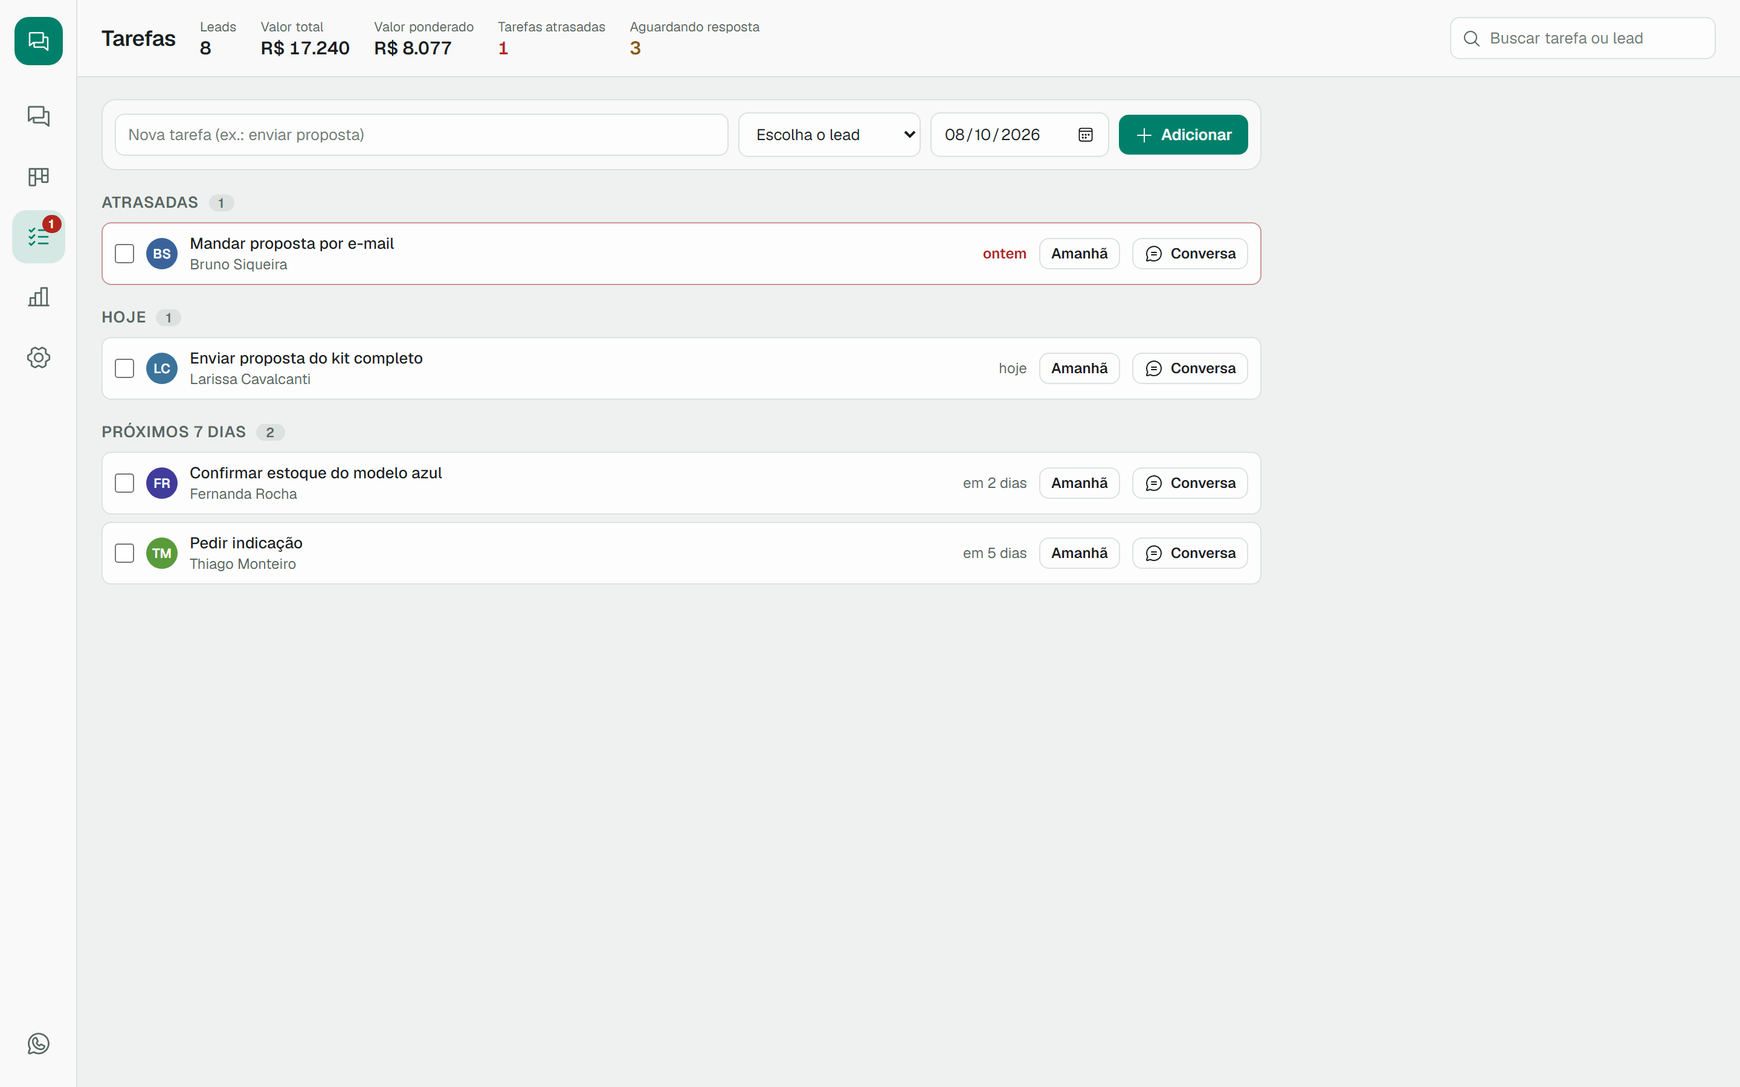
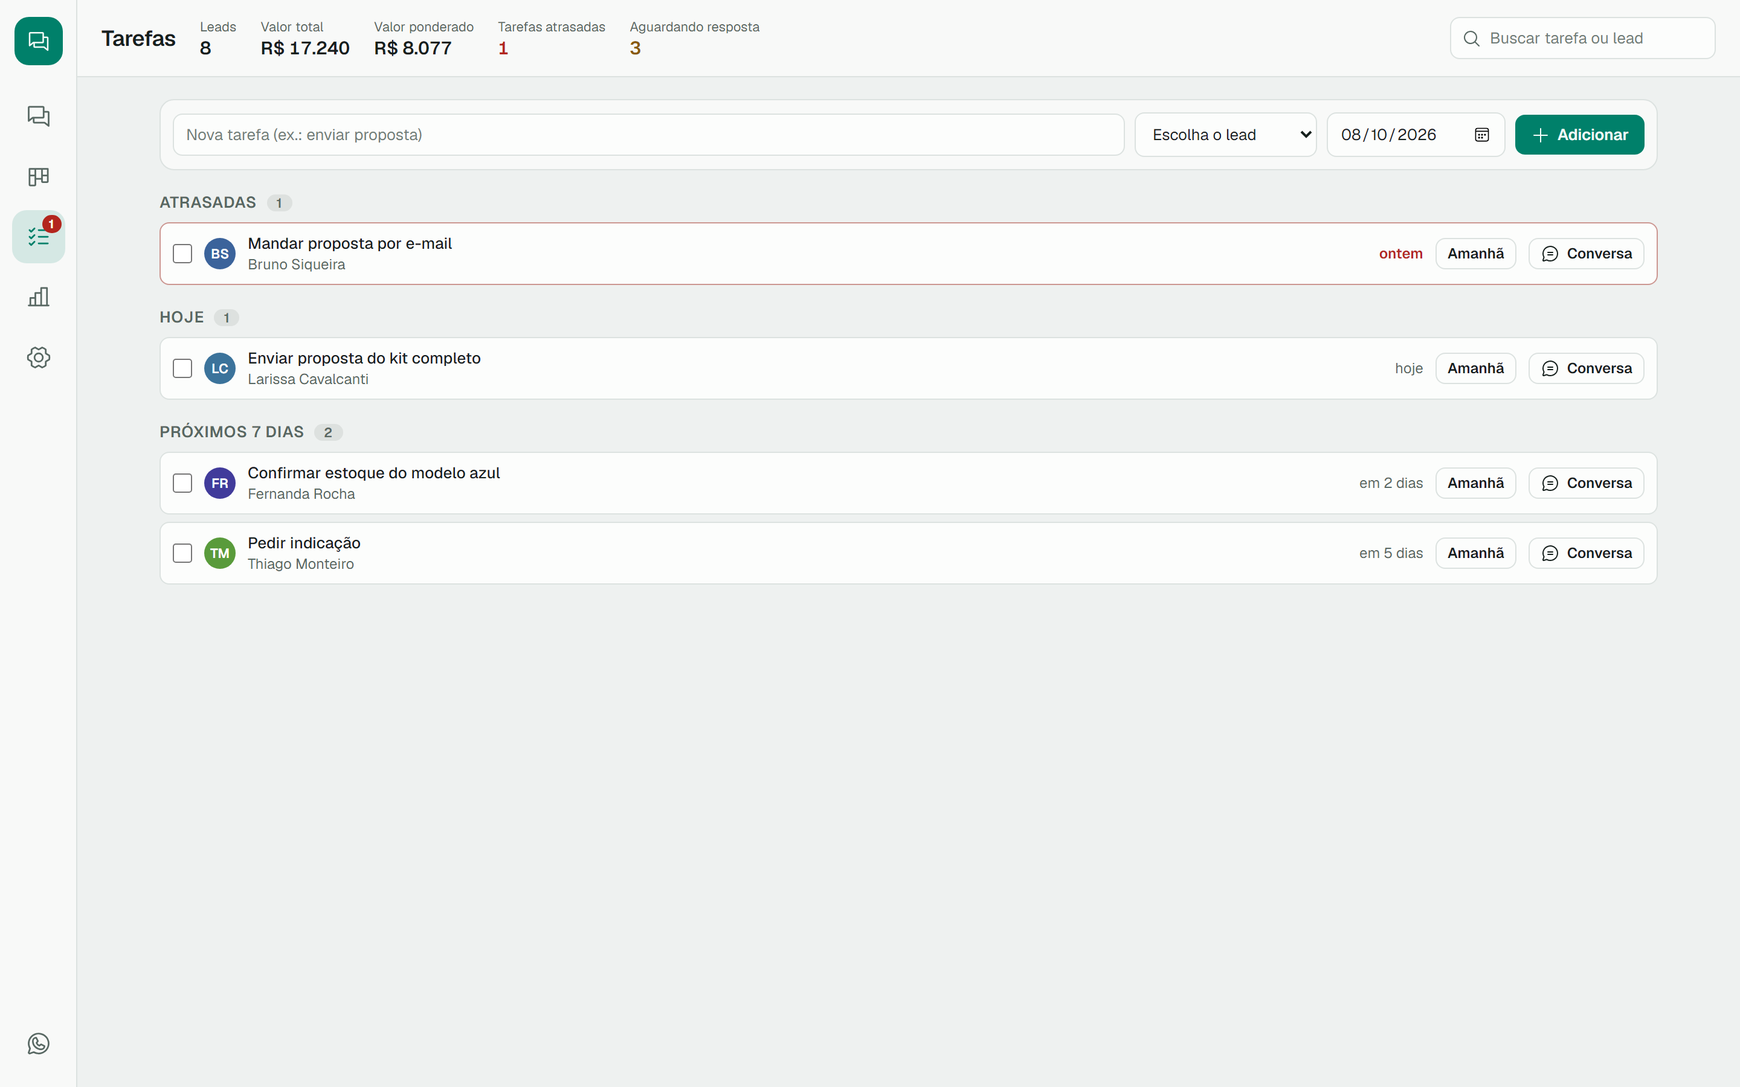
Tema claro/escuro, legenda das fotos, telas centralizadas e conversão do funil
- Botão de tema na barra lateral (sol/lua), com a escolha salva; em Ajustes, "Seguir o
  WhatsApp", "Claro" ou "Escuro".
- Fotos com texto: o campo de legenda do editor do WhatsApp é encontrado também pela posição
  (o rótulo muda conforme idioma e versão) e o texto é conferido depois de escrito. Se não
  entrar, vai logo depois da foto como mensagem, com aviso.
- Relatório e Tarefas centralizados até 1240px; métricas em 3 colunas e etapas na largura toda.
- Conversão de ponta a ponta conta só quem passou pela primeira etapa (antes podia passar de 100%).
- README e prints atualizados.

diff --git a/src/utils/domHelpers.ts b/src/utils/domHelpers.ts
@@ -149,12 +149,41 @@ function mediaSendButton(): HTMLElement | null {
   return null;
 }
 
-function mediaCaptionBox(): HTMLElement | null {
+const plainText = (el: HTMLElement) => (el.innerText ?? '').replace(/[\u200B\r]/g, '').trim();
+
+/**
+ * Campo de legenda do editor de mídia. O rótulo muda conforme idioma e versão do WhatsApp, então, se ele não bater,
+ * vale o campo que recebeu o foco ao abrir o editor ou o campo de texto mais próximo do botão de enviar do editor.
+ * Nunca o campo de mensagem da conversa nem a busca.
+ */
+function mediaCaptionBox(send: HTMLElement, mainComposer: HTMLElement | null): HTMLElement | null {
+  const search = queryFirst('searchBox');
+  const ok = (el: Element | null): el is HTMLElement =>
+    el instanceof HTMLElement && el.isContentEditable && el !== mainComposer && el !== search && !el.closest('footer') && visible(el);
   for (const sel of MEDIA_CAPTION) {
-    const el = Array.from(document.querySelectorAll<HTMLElement>(sel)).find(visible);
+    const el = Array.from(document.querySelectorAll(sel)).find(ok);
     if (el) return el;
   }
+  if (ok(document.activeElement)) return document.activeElement;
+  for (let el = send.parentElement, i = 0; el && i < 12; el = el.parentElement, i++) {
+    const near = Array.from(el.querySelectorAll('[contenteditable="true"]')).find(ok);
+    if (near) return near;
+  }
   return null;
+}
+
+/** Escreve no campo (colagem, depois insertText) e confere se o texto entrou de fato. */
+async function writeCaption(el: HTMLElement, text: string): Promise<boolean> {
+  const probe = text.trim().split('\n')[0]!.slice(0, 20);
+  placeCaretAtEnd(el);
+  pasteText(el, text);
+  await sleep(150);
+  if (!plainText(el).includes(probe)) {
+    el.focus();
+    document.execCommand('insertText', false, text);
+    await sleep(150);
+  }
+  return plainText(el).includes(probe);
 }
 
 export type MediaResult = 'sent' | 'no-composer' | 'no-editor' | 'not-confirmed';
@@ -164,9 +193,9 @@ export type MediaResult = 'sent' | 'no-composer' | 'no-editor' | 'not-confirmed'
  * como quando você cola uma imagem), escreve a legenda e clica em enviar no editor. Só é chamado quando o
  * usuário clica em Enviar no CRM.
  */
-export async function sendFiles(files: File[], caption: string): Promise<MediaResult> {
+export async function sendFiles(files: File[], caption: string): Promise<{ status: MediaResult; captionOk: boolean }> {
   const box = getComposer();
-  if (!box) return 'no-composer';
+  if (!box) return { status: 'no-composer', captionOk: false };
   box.focus();
   const stale = mediaSendButton(); // algo parecido já na tela não é o editor que vamos abrir
   const data = new DataTransfer();
@@ -179,26 +208,22 @@ export async function sendFiles(files: File[], caption: string): Promise<MediaRe
     const found = mediaSendButton();
     send = found && found !== stale ? found : null;
   }
-  if (!send) return 'no-editor';
+  if (!send) return { status: 'no-editor', captionOk: false };
 
+  let captionOk = !caption;
   if (caption) {
-    const cap = mediaCaptionBox();
-    if (cap) {
-      placeCaretAtEnd(cap);
-      pasteText(cap, caption);
-      await sleep(120);
-      if (!cap.innerText.trim()) document.execCommand('insertText', false, caption);
-      await sleep(80);
-    }
+    await sleep(200); // o editor termina de montar o campo de legenda
+    const cap = mediaCaptionBox(send, box);
+    if (cap) captionOk = await writeCaption(cap, caption);
   }
   await sleep(250);
   realClick(mediaSendButton() ?? send);
   for (let i = 0; i < 30; i++) {
     await sleep(150);
     const still = mediaSendButton();
-    if (!still || still === stale) return 'sent';
+    if (!still || still === stale) return { status: 'sent', captionOk };
   }
-  return 'not-confirmed';
+  return { status: 'not-confirmed', captionOk };
 }
 
 /** Esvazia a busca da lista de conversas (depois de abrir um contato por ela). */

diff --git a/src/components/Kanban.ts b/src/components/Kanban.ts
@@ -4,7 +4,7 @@ import { blankContact, deleteContact, getOrCreateContact, putContact, rekeyConta
 import { emitDataChange } from '../storage/bus';
 import { openChat, visibleChatNames } from '../content/chatList';
 import { analyzeChat } from '../content/ai';
-import { DAY_MS, funnelStats, inFunnel, isGroupContact, periodStats, stageProbability, weightedValue } from '../content/metrics';
+import { DAY_MS, funnelConversion, funnelStats, inFunnel, isGroupContact, periodStats, stageProbability, weightedValue } from '../content/metrics';
 import { readMessages, waitForChat } from '../content/messages';
 import { state } from '../content/state';
 import { clearComposer, replaceTokenWithText, sendComposer } from '../utils/domHelpers';
@@ -415,6 +415,7 @@ export function createFunnel(root: ShadowRoot, opts: FunnelOptions): Funnel {
     const pct = (a: number, b: number) => (b ? Math.round((a / b) * 100) + '%' : '-');
     const first = stats[0];
     const last = stats[stats.length - 1];
+    const conv = funnelConversion(list);
     const prevLabel = `vs ${reportDays} dias anteriores`;
 
     /** Variação contra o período anterior. `lowerIsBetter` inverte as cores (ex.: tempo até fechar). */
@@ -443,7 +444,7 @@ export function createFunnel(root: ShadowRoot, opts: FunnelOptions): Funnel {
         card('Vendas fechadas', String(cur.won), delta(cur.won, prev.won), `Leads que chegaram a "${last?.stage.name ?? 'última etapa'}" no período`),
         card('Valor ganho', money(cur.wonValue), delta(cur.wonValue, prev.wonValue), 'Soma do valor das vendas fechadas no período'),
         card('Tarefas concluídas', String(cur.tasksDone), delta(cur.tasksDone, prev.tasksDone), 'Tarefas marcadas como feitas no período'),
-        h('div', { class: 'dash-card wide', title: 'Da entrada no CRM até a última etapa, para as vendas fechadas no período' },
+        h('div', { class: 'dash-card', title: 'Da entrada no CRM até a última etapa, para as vendas fechadas no período' },
           h('span', { class: 'dash-label' }, 'Tempo médio até fechar'), blocks(cur.timeToClose), delta(cur.timeToClose, prev.timeToClose, true))),
 
       h('h3', { class: 'dash-title' }, 'Tempo médio em cada etapa'),
@@ -465,7 +466,7 @@ export function createFunnel(root: ShadowRoot, opts: FunnelOptions): Funnel {
           h('td', { class: 'num' }, money(s.weighted)))))),
       h('p', { class: 'muted' },
         `Leads sem etapa: ${list.filter((c) => !c.stageId).length}. `,
-        first && last && first !== last ? `De "${first.stage.name}" até "${last.stage.name}": ${pct(last.entered, first.entered)}. ` : '',
+        conv && first && last ? `Dos ${conv.from} leads que passaram por "${first.stage.name}", ${conv.reached} chegaram a "${last.stage.name}" (${pct(conv.reached, conv.from)}). ` : '',
         'O histórico de etapas começou a ser gravado na versão 0.4: leads mais antigos contam a partir da etapa em que estavam.'));
   }
 

diff --git a/src/components/styles.ts b/src/components/styles.ts
@@ -179,7 +179,8 @@ details.sec summary { cursor: pointer; font-weight: 600; font-size: 13px; }
 
 /* ---------- visões do Kanban: tarefas e relatório ---------- */
 .seg { display: inline-flex; gap: 4px; }
-.kb-page { flex: 1; overflow-y: auto; padding: 18px 20px; max-width: 1000px; width: 100%; }
+/* conteúdo centralizado até 1240px; o espaço lateral fica no padding para a barra de rolagem continuar na borda */
+.kb-page { flex: 1; overflow-y: auto; width: 100%; padding: 18px max(20px, calc((100% - 1240px) / 2)); }
 .tform { display: flex; gap: 8px; align-items: center; flex-wrap: wrap; background: var(--surface); border: 1px solid var(--line); border-radius: var(--r-box); padding: 10px; margin-bottom: 18px; }
 .tform input, .tform select { margin: 0; width: auto; }
 .tform input:not([type]) { flex: 1; min-width: 200px; }
@@ -331,10 +332,9 @@ input:disabled { opacity: .7; cursor: not-allowed; }
 .import-preview .rep { font-size: 12px; }
 
 /* ---------- painel do relatório ---------- */
-.dash-grid { display: grid; grid-template-columns: repeat(auto-fill, minmax(200px, 1fr)); gap: 12px; margin-bottom: 22px; }
-.dash-grid.stages { grid-template-columns: repeat(auto-fill, minmax(260px, 1fr)); }
+.dash-grid { display: grid; grid-template-columns: repeat(3, minmax(0, 1fr)); gap: 12px; margin-bottom: 22px; }
+.dash-grid.stages { grid-template-columns: repeat(auto-fit, minmax(240px, 1fr)); }
 .dash-card { background: var(--surface); border: 1px solid var(--line); border-radius: var(--r-box); padding: 14px 16px; display: flex; flex-direction: column; gap: 6px; min-width: 0; }
-.dash-card.wide { grid-column: span 2; }
 .dash-label { font-size: 12px; color: var(--muted); display: inline-flex; align-items: center; gap: 4px; }
 .dash-value { font-size: 26px; font-weight: 600; letter-spacing: -.02em; font-variant-numeric: tabular-nums; line-height: 1.1; }
 .delta { font-size: 12px; color: var(--muted); font-variant-numeric: tabular-nums; }
@@ -347,7 +347,8 @@ input:disabled { opacity: .7; cursor: not-allowed; }
 .dur b { font-size: 22px; font-weight: 600; font-variant-numeric: tabular-nums; line-height: 1.1; }
 .dur span { font-size: 11px; color: var(--muted); }
 .dur.empty-dur { display: block; padding: 12px; font-size: 12px; color: var(--muted); text-align: center; }
-@media (max-width: 760px) { .dash-card.wide { grid-column: auto; } }
+@media (max-width: 1000px) { .dash-grid { grid-template-columns: repeat(2, minmax(0, 1fr)); } }
+@media (max-width: 640px) { .dash-grid { grid-template-columns: minmax(0, 1fr); } }
 
 /* ---------- painel do contato (coluna da direita) ---------- */
 .cp-head { display: flex; flex-direction: column; gap: 12px; padding-bottom: 16px; border-bottom: 1px solid var(--line); }

diff --git a/src/components/Inbox.ts b/src/components/Inbox.ts
@@ -5,7 +5,7 @@ import { openChat, rowNames } from '../content/chatList';
 import { findLead, isAwaiting, loadMoreConversations, readConversations, setStatus, type ConvRow } from '../content/conversations';
 import { loadOlderMessages, readMessages, waitForChat, type Msg } from '../content/messages';
 import { state } from '../content/state';
-import { clearComposer, clearSearch, replaceTokenWithText, sendComposer, sendFiles, typeInSearch } from '../utils/domHelpers';
+import { clearComposer, clearSearch, replaceTokenWithText, sendComposer, sendFiles, sleep, typeInSearch } from '../utils/domHelpers';
 import { queryAll } from '../utils/domSelectors';
 import { applyVars, avatarColor, fullDate, hashHue, initials, looseName, normalizeName, relTime, tagHue } from '../utils/format';
 import { contactPanel, fieldVars, leadFor } from './ContactPanel';
@@ -404,7 +404,15 @@ export function createInbox(root: ShadowRoot, opts: { isVisible(): boolean; show
   async function sendPhotos(key: string, caption: string) {
     sending = true;
     renderTray();
-    const result = await sendFiles(files.map((f) => f.file), caption);
+    const { status: result, captionOk } = await sendFiles(files.map((f) => f.file), caption);
+    // a legenda não entrou no editor do WhatsApp: o texto vai logo depois, como mensagem, para não se perder
+    const textApart = result === 'sent' && !!caption && !captionOk;
+    if (textApart) {
+      await sleep(400);
+      await clearComposer();
+      await replaceTokenWithText(0, caption);
+      await sendComposer(false);
+    }
     sending = false;
     if (result === 'sent' || result === 'not-confirmed') {
       clearFiles();
@@ -412,7 +420,7 @@ export function createInbox(root: ShadowRoot, opts: { isVisible(): boolean; show
       drafts.delete(key);
       window.setTimeout(() => renderMessages(), 700);
     } else renderTray();
-    if (result === 'sent') toast(root, 'Foto enviada.');
+    if (result === 'sent') toast(root, textApart ? 'Foto enviada. O texto foi logo em seguida, como mensagem.' : 'Foto enviada.');
     else if (result === 'not-confirmed') { toast(root, 'Confira no WhatsApp original se a foto saiu.'); opts.showWhatsApp(); }
     else if (result === 'no-editor') { toast(root, 'O WhatsApp não abriu o editor de foto. Abri o WhatsApp original para você enviar por lá.'); opts.showWhatsApp(); }
     else toast(root, 'Abra uma conversa antes de enviar a foto.');

diff --git a/src/components/App.ts b/src/components/App.ts
@@ -1,5 +1,7 @@
 import type { Contact } from '../types';
 import { state } from '../content/state';
+import { currentTheme } from '../content/injector';
+import { saveViewPrefs } from '../storage/chromeStore';
 import { todayStr } from '../utils/format';
 import { createFunnel, type FunnelMode } from './Kanban';
 import { createInbox } from './Inbox';
@@ -45,11 +47,23 @@ export function mountApp(root: ShadowRoot): App {
   });
 
   const lateBadge = h('span', { class: 'rail-badge hidden' });
+  // alterna claro/escuro e guarda a escolha (em Ajustes dá para voltar a seguir o WhatsApp)
+  const themeBtn = h('button', { class: 'rail-btn', on: { click: () => {
+    void saveViewPrefs({ ...state.view, theme: currentTheme() === 'dark' ? 'light' : 'dark' });
+  } } });
+  const renderThemeBtn = () => {
+    const dark = currentTheme() === 'dark';
+    const label = dark ? 'Mudar para o tema claro' : 'Mudar para o tema escuro';
+    themeBtn.replaceChildren(icon(dark ? 'sun' : 'moon', 22));
+    themeBtn.title = label;
+    themeBtn.setAttribute('aria-label', label);
+  };
   const railNav = h('nav', { class: 'rail-nav', 'aria-label': 'Seções do CRM' });
   const rail = h('div', { class: 'rail' },
     h('div', { class: 'rail-mark', title: 'WA Local CRM', 'aria-hidden': 'true' }, icon('chats', 20)),
     railNav,
     h('span', { class: 'kb-spacer' }),
+    themeBtn,
     h('button', { class: 'rail-btn', title: 'Usar o WhatsApp original (Alt+K volta)', 'aria-label': 'Usar o WhatsApp original', on: { click: () => api.hide() } }, icon('whatsapp', 22)));
 
   const settingsMenu = h('nav', { class: 'set-menu', 'aria-label': 'Ajustes' });
@@ -64,6 +78,7 @@ export function mountApp(root: ShadowRoot): App {
   for (const type of ['keydown', 'keypress', 'keyup', 'paste'] as const) shell.addEventListener(type, (e) => e.stopPropagation());
 
   function renderRail() {
+    renderThemeBtn();
     const late = state.contacts.reduce((a, c) => a + c.tasks.filter((t) => !t.done && t.due && t.due < todayStr()).length, 0);
     lateBadge.textContent = String(late);
     lateBadge.classList.toggle('hidden', late === 0);

diff --git a/src/components/Settings.ts b/src/components/Settings.ts
@@ -338,10 +338,13 @@ function dataView(root: ShadowRoot, refresh: () => void): Node[] {
     try { toast(root, `${await importBackup(await f.text())} contatos importados.`); } catch (err) { toast(root, String(err)); }
   } } });
   return [
-    h('div', { class: 'sec form-card' }, h('h4', {}, 'Abertura e avisos'),
+    h('div', { class: 'sec form-card' }, h('h4', {}, 'Aparência, abertura e avisos'),
       h('label', { class: 'check', for: 'set-autoopen' },
         h('input', { id: 'set-autoopen', type: 'checkbox', checked: state.view.autoOpen, on: { change: (e) => void saveViewPrefs({ ...state.view, autoOpen: (e.target as HTMLInputElement).checked }) } }),
         'Abrir o CRM em tela cheia assim que o WhatsApp carregar'),
+      h('label', { class: 'field', for: 'set-theme' }, 'Tema'),
+      h('select', { id: 'set-theme', on: { change: (e) => void saveViewPrefs({ ...state.view, theme: (e.target as HTMLSelectElement).value as typeof state.view.theme }) } },
+        ...([['auto', 'Seguir o WhatsApp'], ['light', 'Claro'], ['dark', 'Escuro']] as const).map(([v, l]) => h('option', { value: v, selected: state.view.theme === v }, l))),
       h('label', { class: 'check', for: 'set-notify' },
         h('input', { id: 'set-notify', type: 'checkbox', checked: state.view.notifyTasks, on: { change: (e) => void saveViewPrefs({ ...state.view, notifyTasks: (e.target as HTMLInputElement).checked }) } }),
         'Avisar no computador quando uma tarefa vence hoje ou atrasa'),

diff --git a/src/content/injector.ts b/src/content/injector.ts
@@ -12,6 +12,18 @@ function isDark(): boolean {
   return (r * 299 + g * 587 + b * 114) / 1000 < 90;
 }
 
+type ThemePref = 'auto' | 'light' | 'dark';
+let preference: ThemePref = 'auto';
+let syncTheme = () => undefined as void;
+
+/** Tema escolhido no CRM. "auto" acompanha o WhatsApp; claro ou escuro valem mesmo que o WhatsApp esteja no outro. */
+export function setThemePreference(pref: ThemePref): void {
+  preference = pref;
+  syncTheme();
+}
+
+export const currentTheme = (): 'light' | 'dark' => (preference === 'auto' ? (isDark() ? 'dark' : 'light') : preference);
+
 /** Cria o host com Shadow Root (isola o CSS do WhatsApp) e acompanha o tema claro/escuro. */
 export function mountShadowRoot(): ShadowRoot {
   document.getElementById(HOST_ID)?.remove();
@@ -23,7 +35,8 @@ export function mountShadowRoot(): ShadowRoot {
   root.append(style);
   document.documentElement.append(host);
 
-  const sync = () => host.setAttribute('data-theme', isDark() ? 'dark' : 'light');
+  const sync = () => host.setAttribute('data-theme', currentTheme());
+  syncTheme = sync;
   sync();
   new MutationObserver(sync).observe(document.body, { attributes: true, attributeFilter: ['class'] });
   new MutationObserver(sync).observe(document.documentElement, { attributes: true, attributeFilter: ['class'] });

diff --git a/src/content/index.ts b/src/content/index.ts
@@ -9,7 +9,7 @@ import { checkTaskAlerts } from './notify';
 import { refreshBadges } from './chatList';
 import { readConversations, trackStatus } from './conversations';
 import { loadFonts } from './fonts';
-import { mountShadowRoot } from './injector';
+import { mountShadowRoot, setThemePreference } from './injector';
 import { startObserver } from './observer';
 import { reloadState, setChat, state, watchState } from './state';
 
@@ -17,6 +17,7 @@ async function init() {
   await Promise.all([reloadState(), loadFonts()]);
   await onDataChanged(); // primeiro snapshot: não dispara fluxos para o que já existia
   const root = mountShadowRoot();
+  setThemePreference(state.view.theme);
   const app = mountApp(root);
   const panel = mountPanel(root);
   mountQuickReplyPopup(root);
@@ -32,6 +33,7 @@ async function init() {
   const open = () => { app.open(); syncDock(); };
 
   watchState(async () => {
+    setThemePreference(state.view.theme);
     await onDataChanged(); // fluxos "entra na etapa" e "tag adicionada"
     refreshBadges();
     panel.refresh();

diff --git a/src/content/metrics.ts b/src/content/metrics.ts
@@ -38,6 +38,26 @@ export interface StageStats {
   weighted: number;
 }
 
+/**
+ * Conversão de ponta a ponta: dos leads que passaram pela primeira etapa, quantos chegaram depois à última.
+ * Quem entrou direto numa etapa do meio não conta (antes isso podia passar de 100%).
+ */
+export function funnelConversion(contacts: Contact[]): { from: number; reached: number } | null {
+  const stages = sortedStages();
+  const first = stages[0]?.id;
+  const last = stages[stages.length - 1]?.id;
+  if (!first || !last || first === last) return null;
+  let from = 0, reached = 0;
+  for (const c of contacts) {
+    const hist = c.stageHistory ?? [];
+    const i = hist.findIndex((e) => e.stageId === first);
+    if (i < 0) continue;
+    from++;
+    if (hist.slice(i + 1).some((e) => e.stageId === last)) reached++;
+  }
+  return { from, reached };
+}
+
 export function funnelStats(contacts: Contact[]): StageStats[] {
   const stages = sortedStages();
   const order = new Map(stages.map((s, i) => [s.id, i]));

diff --git a/src/storage/chromeStore.ts b/src/storage/chromeStore.ts
@@ -46,7 +46,7 @@ export const getAutomationLog = () => get<Record<string, number>>(AUTOMATION_LOG
 export const saveAutomationLog = (v: Record<string, number>) => set(AUTOMATION_LOG_KEY, v, false);
 export const getAiSettings = async (): Promise<AiSettings> => ({ ...DEFAULT_AI, ...(await get<Partial<AiSettings>>(AI_SETTINGS_KEY, {})) });
 export const saveAiSettings = (v: AiSettings) => set(AI_SETTINGS_KEY, v);
-export const DEFAULT_VIEW: ViewPrefs = { hideGroups: true, showInternal: false, statusFilter: 'all', autoOpen: true, notifyTasks: true };
+export const DEFAULT_VIEW: ViewPrefs = { hideGroups: true, showInternal: false, statusFilter: 'all', autoOpen: true, notifyTasks: true, theme: 'auto' };
 export const getViewPrefs = async (): Promise<ViewPrefs> => ({ ...DEFAULT_VIEW, ...(await get<Partial<ViewPrefs>>(VIEW_PREFS_KEY, {})) });
 export const saveViewPrefs = (v: ViewPrefs) => set(VIEW_PREFS_KEY, v);
 export const getFields = () => get<FieldDef[]>(CUSTOM_FIELDS_KEY, []);

diff --git a/src/components/icons.ts b/src/components/icons.ts
@@ -17,6 +17,8 @@ import image from '@phosphor-icons/core/assets/regular/image.svg';
 import fileText from '@phosphor-icons/core/assets/regular/file-text.svg';
 import mapPin from '@phosphor-icons/core/assets/regular/map-pin.svg';
 import packageIcon from '@phosphor-icons/core/assets/regular/package.svg';
+import moon from '@phosphor-icons/core/assets/regular/moon.svg';
+import sun from '@phosphor-icons/core/assets/regular/sun.svg';
 import kanban from '@phosphor-icons/core/assets/regular/kanban.svg';
 import listChecks from '@phosphor-icons/core/assets/regular/list-checks.svg';
 import magnifyingGlass from '@phosphor-icons/core/assets/regular/magnifying-glass.svg';
@@ -61,6 +63,8 @@ const ICONS = {
   gear: gearSix,
   image,
   kanban,
+  moon,
+  sun,
   template: fileText,
   map: mapPin,
   package: packageIcon,

diff --git a/src/types/index.ts b/src/types/index.ts
@@ -108,6 +108,7 @@ export interface ViewPrefs {
   showInternal: boolean;
   statusFilter: 'all' | 'awaiting' | 'open' | 'resolved';
   autoOpen: boolean; // abre o CRM em tela cheia assim que o WhatsApp carrega
+  theme: 'auto' | 'light' | 'dark'; // auto = segue o tema do WhatsApp
   notifyTasks: boolean; // avisos do sistema para tarefas que vencem hoje ou atrasaram
 }
 
